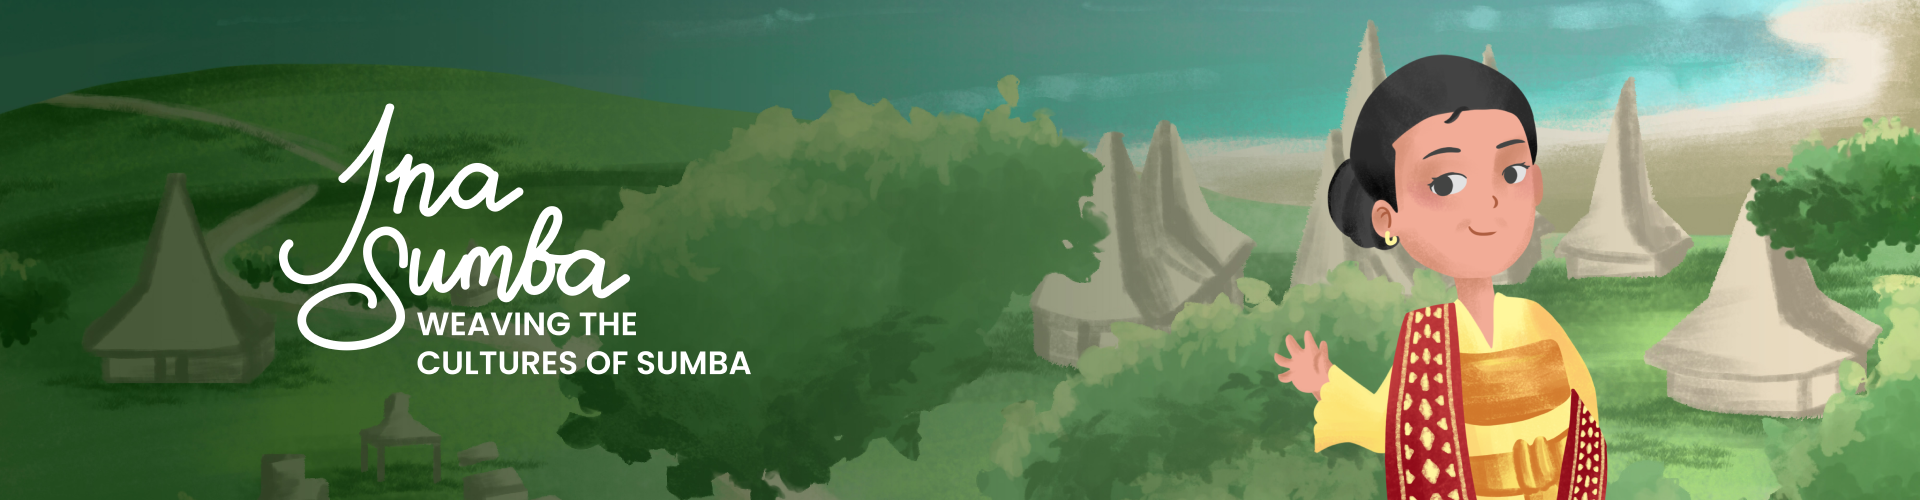
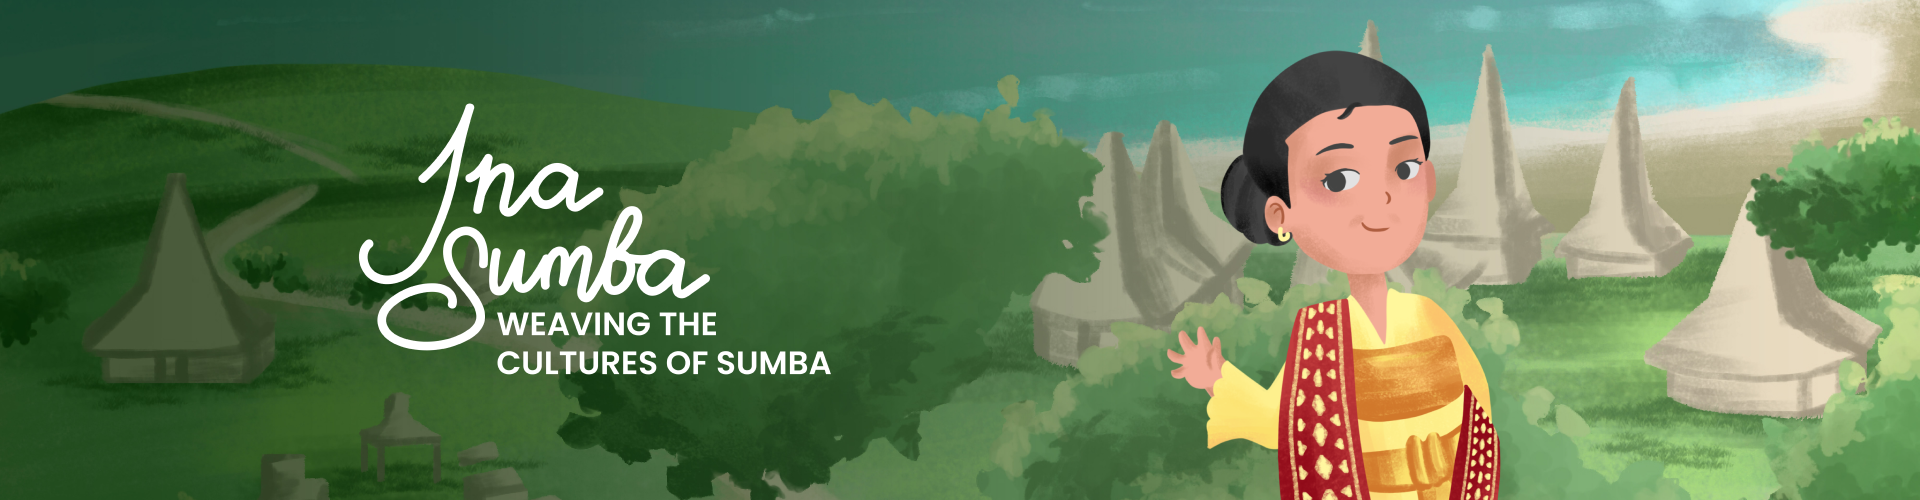
feat: enhance mobile responsiveness and improve layout for navbar and images

Changed region(s): [[0.5938, 0.09, 0.8438, 1.0], [0.125, 0.21, 0.4375, 0.75]]

diff --git a/frontend/components/navbar-home.tsx b/frontend/components/navbar-home.tsx
@@ -1,5 +1,4 @@
 "use client"
-
 import Image from "next/image"
 import { useRouter, usePathname } from "next/navigation"
 import clsx from "clsx"
@@ -7,7 +6,7 @@ import clsx from "clsx"
 export default function BottomNavbar() {
   const router = useRouter()
   const pathname = usePathname()
-
+  
   const navItems = [
     {
       label: "Ina Talk",
@@ -33,76 +32,109 @@ export default function BottomNavbar() {
 
   return (
     <div className="fixed bottom-0 left-0 right-0 z-50">
-      <div className="relative bg-white px-6 py-4 rounded-t-full shadow-md border-t border-gray-200">
-        {/* Tombol Chatbot Tengah */}
-        <div className="absolute inset-x-0 -top-6 flex justify-center">
+      <div className="relative bg-white px-4 py-3 rounded-t-xl shadow-md border-t border-gray-200">
+        {/* Tombol Start Conversation di Atas Navbar */}
+        <div className="absolute inset-x-0 -top-8 md:-top-6 flex justify-center">
           <button
             onClick={() => router.push("/chatbot")}
-            className="px-6 py-3 bg-white border border-gray-300 shadow-md rounded-full flex items-center space-x-2 active:scale-95 transition-transform duration-150"
+            className="px-4 py-2 md:px-6 md:py-3 bg-white border border-gray-300 shadow-md rounded-full flex items-center active:scale-95 transition-transform duration-150"
           >
-            <span className="text-[15px] text-brown-700 font-semibold">
+            <span className="text-sm md:text-[15px] text-brown-700 font-semibold whitespace-nowrap">
               Start Conversation
             </span>
           </button>
         </div>
 
-        {/* Navigasi */}
-        <div className="flex justify-between items-center max-w-3xl mx-auto px-4">
-          {navItems.slice(0, 2).map((item) => (
-            <button
-              key={item.path}
-              onClick={() => router.push(item.path)}
-              className="flex flex-col items-center space-y-1 px-2"
-            >
-              <Image
-                src={item.icon}
-                alt={item.label}
-                width={28}
-                height={28}
-                className={clsx("transition-all", {
-                  "brightness-100": pathname === item.path,
-                  "brightness-50": pathname !== item.path,
-                })}
-              />
-              <span
-                className={clsx("text-xs font-medium", {
-                  "text-amber-600": pathname === item.path,
-                  "text-gray-500": pathname !== item.path,
-                })}
+        
+        <div className="flex justify-center items-center">
+          
+          <div className="flex justify-between items-center w-full max-w-sm md:hidden">
+            {navItems.map((item) => (
+              <button
+                key={item.path}
+                onClick={() => router.push(item.path)}
+                className="flex flex-col items-center space-y-1 flex-1"
               >
-                {item.label}
-              </span>
-            </button>
-          ))}
+                <Image
+                  src={item.icon}
+                  alt={item.label}
+                  width={24}
+                  height={24}
+                  className={clsx("transition-all", {
+                    "brightness-100": pathname === item.path,
+                    "brightness-50": pathname !== item.path,
+                  })}
+                />
+                <span
+                  className={clsx("text-xs font-medium text-center leading-tight", {
+                    "text-amber-600": pathname === item.path,
+                    "text-gray-500": pathname !== item.path,
+                  })}
+                >
+                  {item.label}
+                </span>
+              </button>
+            ))}
+          </div>
 
-          <div className="w-20" /> {/* Spacer untuk tombol tengah */}
-
-          {navItems.slice(2).map((item) => (
-            <button
-              key={item.path}
-              onClick={() => router.push(item.path)}
-              className="flex flex-col items-center space-y-1 px-2"
-            >
-              <Image
-                src={item.icon}
-                alt={item.label}
-                width={28}
-                height={28}
-                className={clsx("transition-all", {
-                  "brightness-100": pathname === item.path,
-                  "brightness-50": pathname !== item.path,
-                })}
-              />
-              <span
-                className={clsx("text-xs font-medium", {
-                  "text-amber-600": pathname === item.path,
-                  "text-gray-500": pathname !== item.path,
-                })}
-              >
-                {item.label}
-              </span>
-            </button>
-          ))}
+          
+          <div className="hidden md:flex justify-center items-center">
+            <div className="flex items-center space-x-24">
+              {navItems.slice(0, 2).map((item) => (
+                <button
+                  key={item.path}
+                  onClick={() => router.push(item.path)}
+                  className="flex flex-col items-center space-y-1 px-2"
+                >
+                  <Image
+                    src={item.icon}
+                    alt={item.label}
+                    width={28}
+                    height={28}
+                    className={clsx("transition-all", {
+                      "brightness-100": pathname === item.path,
+                      "brightness-50": pathname !== item.path,
+                    })}
+                  />
+                  <span
+                    className={clsx("text-xs font-medium", {
+                      "text-amber-600": pathname === item.path,
+                      "text-gray-500": pathname !== item.path,
+                    })}
+                  >
+                    {item.label}
+                  </span>
+                </button>
+              ))}
+              <div className="w-16" />
+              {navItems.slice(2).map((item) => (
+                <button
+                  key={item.path}
+                  onClick={() => router.push(item.path)}
+                  className="flex flex-col items-center space-y-1 px-2"
+                >
+                  <Image
+                    src={item.icon}
+                    alt={item.label}
+                    width={28}
+                    height={28}
+                    className={clsx("transition-all", {
+                      "brightness-100": pathname === item.path,
+                      "brightness-50": pathname !== item.path,
+                    })}
+                  />
+                  <span
+                    className={clsx("text-xs font-medium", {
+                      "text-amber-600": pathname === item.path,
+                      "text-gray-500": pathname !== item.path,
+                    })}
+                  >
+                    {item.label}
+                  </span>
+                </button>
+              ))}
+            </div>
+          </div>
         </div>
       </div>
     </div>

diff --git a/frontend/app/home/page.tsx b/frontend/app/home/page.tsx
@@ -18,7 +18,7 @@ export default function ChatbotLanding() {
 
     setIsLoaded(true)
 
-    // Register service worker for PWA
+    
     if ("serviceWorker" in navigator) {
       navigator.serviceWorker
         .register("/sw.js")
@@ -64,9 +64,9 @@ export default function ChatbotLanding() {
       {/* Overlay */}
       <div className="absolute inset-0 bg-black/20 z-0" />
 
-      {/* Title */}
+      {/* Title for Desktop */}
       <div
-        className={`absolute top-4 md:top-8 left-0 right-0 text-center z-20 transition-all duration-1000 ${
+        className={`absolute top-4 md:top-8 left-0 right-0 text-center z-20 transition-all duration-1000 hidden md:block ${
           isLoaded ? "opacity-100 translate-y-0" : "opacity-0 translate-y-8"
         }`}
       >
@@ -79,6 +79,37 @@ export default function ChatbotLanding() {
         />
       </div>
 
+      {/* Logo for Mobile */}
+      <div
+        className={`absolute top-4 left-0 right-0 text-center z-20 transition-all duration-1000 md:hidden ${
+          isLoaded ? "opacity-100 translate-y-0" : "opacity-0 translate-y-8"
+        }`}
+      >
+        <Image
+          src="/images/logo.png"
+          alt="Ina Na Logo"
+          width={80}
+          height={80}
+          className="logo-mobile-bigger mx-auto mb-2 drop-shadow-2xl"
+          priority
+        />
+      </div>
+
+      <div
+        className={`absolute top-4 md:top-8 left-0 right-0 text-center z-20 transition-all duration-1000 hidden md:block ${
+          isLoaded ? "opacity-100 translate-y-0" : "opacity-0 translate-y-8"
+        }`}
+      >
+        <Image
+          src="/images/name.png"
+          alt="Ina Na"
+          width={450}
+          height={80}
+          className="mx-auto mb-2 md:mb-4 drop-shadow-2xl"
+        />
+      </div>
+
+
       {/* Main */}
       <div className="relative z-10 flex flex-col min-h-screen">
         {/* Main Content */}
@@ -89,20 +120,37 @@ export default function ChatbotLanding() {
               isLoaded ? "opacity-100 translate-y-0 scale-100" : "opacity-0 translate-y-12 scale-95"
             }`}
           >
+            {/* Show title below INA-NA.gif on small screens only */}
+            <div
+              className={`absolute left-1/2 top-[-70px] transform -translate-x-1/2 z-20 transition-all duration-1000 md:hidden ${
+                isLoaded ? "opacity-100 translate-y-0" : "opacity-0 translate-y-8"
+              }`}
+            >
+            <Image
+              src="/images/name.png"
+              alt="Ina Na"
+              width={320}
+              height={60}
+              className="name-mobile-bigger mx-auto mb-2 drop-shadow-2xl w-[260px] h-auto"
+              priority
+            />
+            </div>
             <div className="relative">
-              <Image
-                src="/images/INA-NA.gif"
-                alt="Ina Na Character"
-                width={480}
-                height={600}
-                className="w-[280px] md:w-[360px] lg:w-[440px] h-auto drop-shadow-2xl hover:scale-105 transition-transform duration-300"
-                priority
-              />
+             <Image
+              src="/images/INA-NA.gif"
+              alt="Ina Na Character"
+              width={480}
+              height={600}
+              className="ina-na-mobile-bigger md:w-[360px] lg:w-[440px] h-auto drop-shadow-2xl hover:scale-105 transition-transform duration-300"
+              priority
+            />
+
 
               {/* Glow effect */}
               <div className="absolute inset-0 bg-yellow-200/20 rounded-full blur-2xl -z-10 scale-125" />
             </div>
-          </div>
+            </div>
+            
         </main>
 
 
@@ -132,8 +180,8 @@ export default function ChatbotLanding() {
         <div className="absolute inset-0 bg-gradient-to-br from-black via-gray-900 to-gray-800 flex items-center justify-center z-20">
           <div className="text-white text-center">
             <div className="animate-spin rounded-full h-16 w-16 border-4 border-white border-t-transparent mx-auto mb-6" />
-            <p className="text-xl font-semibold">Memuat...</p>
-            <p className="text-sm opacity-80 mt-2">Menyiapkan percakapan dengan Ina Na</p>
+            <p className="text-xl font-semibold">Loading...</p>
+            <p className="text-sm opacity-80 mt-2">Preparing your conversation with Ina Na</p>
           </div>
         </div>
       )}

diff --git a/frontend/app/shop/page.tsx b/frontend/app/shop/page.tsx
@@ -69,13 +69,14 @@ export default function ShopMain() {
 
   return (
     <div className="min-h-screen bg-gray-50">
-     <section className="relative w-full h-[320px] md:h-[400px] lg:h-[480px] overflow-hidden">
+    <section className="relative w-full h-40 sm:h-100 md:h-80 lg:h-[480px] overflow-hidden">
       <Image
         src="/images/banner.png"
         alt="Banner"
         fill
-        className="object-cover object-top md:object-center w-full h-full"
+        className="object-cover object-top md:object-left w-full h-full"
         priority
+        sizes="(max-width: 640px) 100vw, (max-width: 1024px) 100vw, 1280px"
       />
     </section>
 

diff --git a/frontend/components/bottom-navbar.tsx b/frontend/components/bottom-navbar.tsx
@@ -33,7 +33,7 @@ export default function BottomNavbar() {
 
   return (
     <div className="fixed bottom-0 left-0 right-0 z-50">
-      <div className="relative bg-white px-6 py-4 rounded-t-full shadow-md border-t border-gray-200">
+      <div className="relative bg-white px-6 py-4 rounded-t-xl shadow-md border-t border-gray-200">
         {/* Avatar Tengah */}
         <div className="absolute inset-x-0 -top-8 flex justify-center">
           <div

diff --git a/frontend/app/globals.css b/frontend/app/globals.css
@@ -120,3 +120,25 @@
     @apply bg-background text-foreground;
   }
 }
+
+@media (max-width: 768px) {
+  .ina-na-mobile-bigger {
+    max-width:130% !important;
+    width:130% !important;
+  }
+}
+
+
+@media (max-width: 768px) {
+  .name-mobile-bigger {
+    max-width:200% !important;
+    width:200% !important;
+  }
+}
+
+@media (max-width: 768px) {
+  .logo-mobile-bigger {
+    max-width:75% !important;
+    width:75% !important;
+  }
+}
